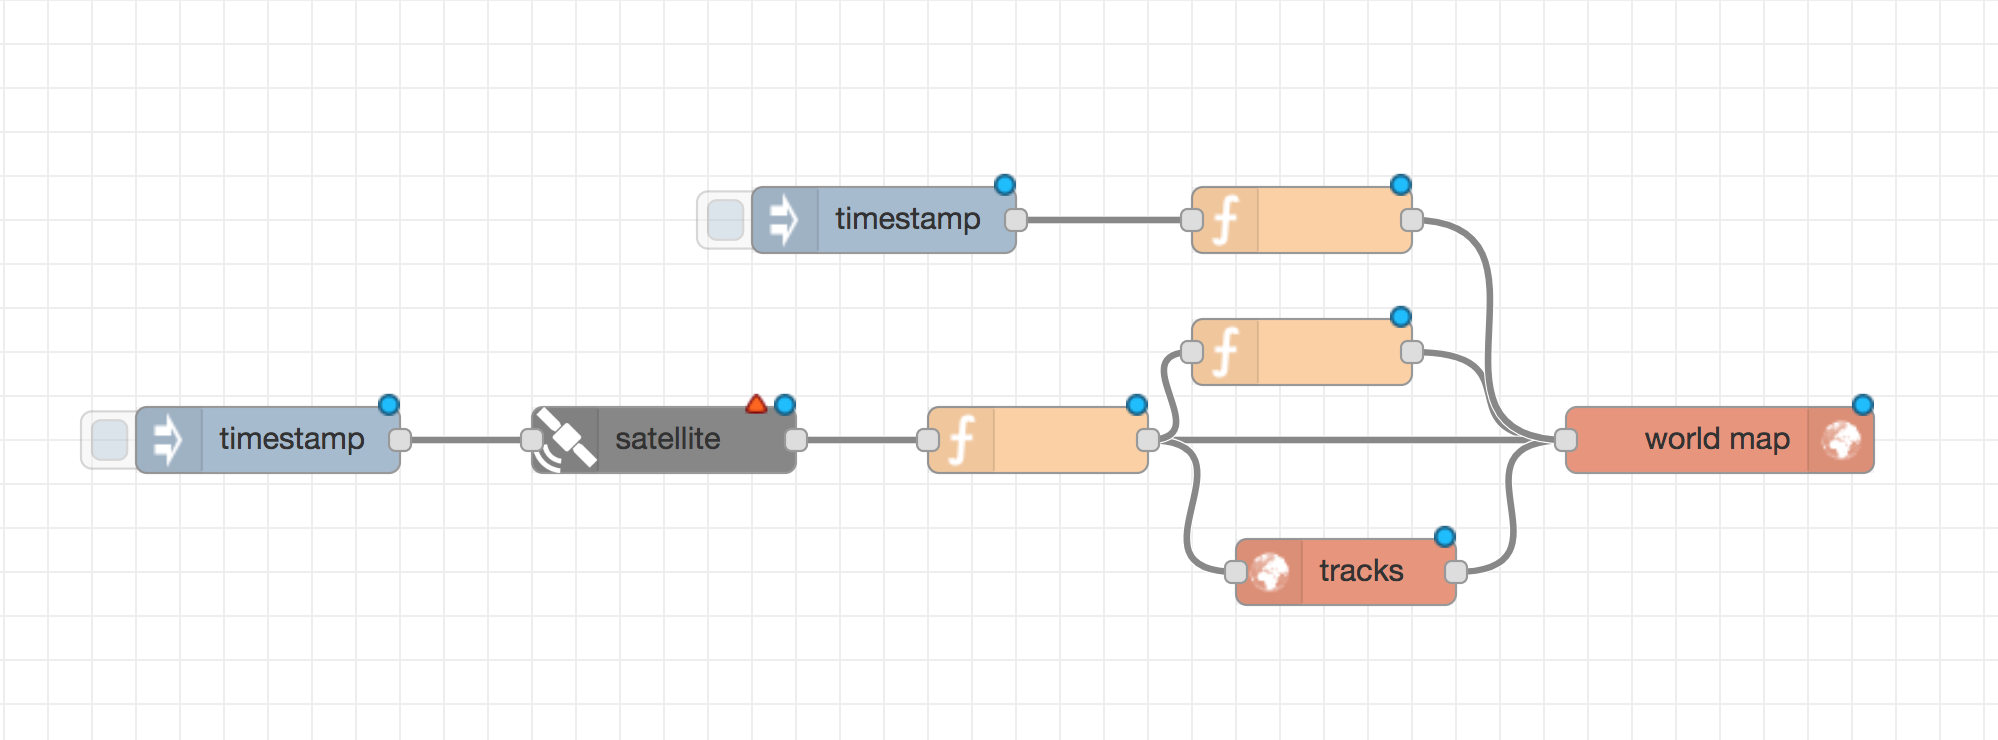
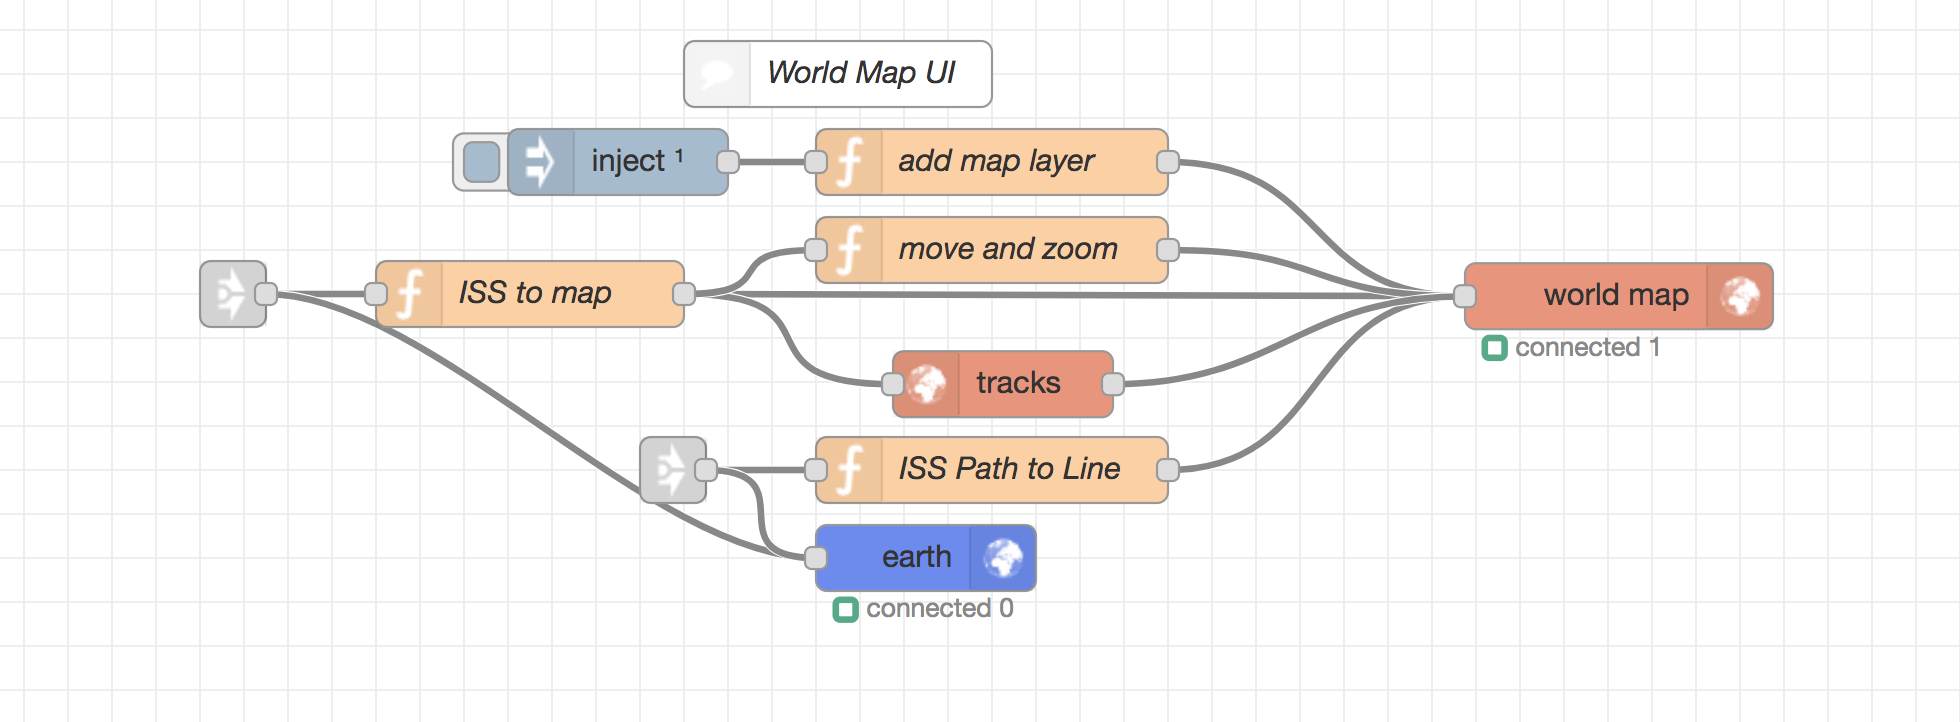
Change instructions to Create Flow Manually. (#24)
Update for changes to the Node-RED flow.

Changed region(s): [[0.0311, 0.0914, 0.9648, 0.8837]]

diff --git a/doc/CreateFlowManually.md b/doc/CreateFlowManually.md
@@ -1,0 +1,180 @@
+# Build the Node-RED Flow Manually
+
+In order to build the Node-RED flow for the CASIS satellite tracker, you will use the flow editor to add and connect nodes, and put configuration information and code in the appropriate node.
+
+> NOTE: You can move the contents of a file to your Operating System clipboard with:
+
+ `pbcopy < myfile` on MacOS,
+
+ `cat myfile |clip` on Windows, or
+
+ `cat myfile| xclip` on Linux.
+
+> NOTE: You can find nodes in the `filter nodes` search box in the upper left of the flow editor.
+
+<p align="left">
+  <img width="100" height="300" src="https://github.com/IBM/pattern-images/blob/master/node-red/NodeREDfilterNodes.png">
+</p>
+
+> NOTE:  We'll add `link` nodes to allow them to fit on one screen, and to connect multiple nodes via branching. We'll add the nodes first, then connect them at the the end.
+
+### Create the Watson Assistant Chat API
+
+* Grab the following nodes in order, and wire them up in a row. The following 3 groups represent 3 rows:
+
+```
+http in
+function
+assistant
+function
+link out
+
+link in
+function
+credentials
+http request
+json
+link out
+
+link in
+function
+http response
+```
+
+The flow should look like this:
+
+![](source/images/ChatUIwiredUp.png)
+
+* Double-click the first node, `http in` and change the Method to `POST` and the URL to `/botchat`
+
+* Double-click the next `function` node, change the name to `Process chat input` and cut-n-paste the [processChatInput.js](../data/NodeRED/Functions/processChatInput.js) code.
+
+* Double-click the `Assistant` node, and name it 'ISS Assistant'. Add the `username` and `password`, or the IAM `apikey`, and the `Workspace ID`  that you saved earlier when you created the Watson Assistant service.
+
+* Double-click the final `function` node in the first row, name it `Generate Timestamp`, and cut-n-paste the [generateTimestamp.js](../data/NodeRED/Function/generateTimestamp.js) code.
+
+* Start the second row by double-clicking on the first `function` node in that row and name it `ISS to reverse geocode function`, and paste the [ISStoReverseGeocode.js](../data/NodeRED/Functions/ISStoReverseGeocode.js) code.
+
+* Double click the `credentials` node. Click `+add` under the `Values` box and add the locationIQ API key to the `private` box and change the `to` box to be msg.`API_key`.
+
+* Double click the `http request` node and name it `GET reverse geocode`. In the URL box paste the [getReverseGeocode](../data/NodeRED/Functions/getReverseGeocode) URL string.
+
+* The `json` node does not need configuration.
+
+* Begin the third row by double-clicking the `function` node and naming it `Assistant output to chat`. Paste the [assistantOutputToChat.js](../data/NodeRED/Functions/assistantOutputToChat.js) code.
+
+* Finally, double-click the `http response` node and name it `Bot response`. Set the status code to `200`.
+
+### Create the Handle Assistant Intents
+
+* We'll build the following:
+
+![](source/images/HandleAssistantIntents.png)
+
+* Grab the following Nodes and connect them:
+
+```
+link node
+switch node
+
+in parallel:
+function node
+satellite node
+time array
+time array
+function
+function
+
+from each time array:
+function
+
+from both functions:
+satellite
+
+link node
+```
+
+* Open up the switch node, name it `Assistant Intents`, and add the property `assistant.intents[0].intent` (after `msg.`).
+We'll have a total of 6 intents, so use the `+add` button to add 5 more. Name them: `what`,`where`,`where-historical`,`where-future`, `mode-2d`, and `mode-3d`.
+
+* Open the top function node, name it `Where is the ISS?`, and paste the [whatIsTheISS.js](../data/NodeRED/Functions/whatIsTheISS.js) code.
+
+* The satellite node should already have Sat. Type `Space Stations` and Satellite `ISS(ZARYA)`.
+
+* Open the top Satellite Time Array node and configure with `+/-` `10` mins, Samples `20`, and Name `Last 10 mins`.
+
+* Open the second Satellite Time Array node and configure with `+/-` `0` mins, Samples `20`, and Name `Next 10 mins`.
+
+* Open the next function node, name it `Define Mode` and paste the [defineMode.js](../data/NodeRED/Functions/defineMode.js) code.
+
+* Open the bottom function node, name it `Define Mode` and paste the [defineMode.js](../data/NodeRED/Functions/defineMode.js) code. Change the code from `2d` to `3d`.
+
+* The 2 functions coming after the Satellite Time array should both be named `Define Text`. Paste the [defineText.js](../data/NodeRED/Functions/defineText.js) code in each and change the bottom one from `Last` to `Next`.
+
+* The final Satellite node should be the same as the first, with Satellite `ISS(ZARYA)`.
+
+### Create the HTML Chat UI
+
+* In your Node-RED flow editor, drag-and-drop nodes for `HTTP input`, `template`, and `HTTP response` and wire them together.
+
+* Double-click the first node `http in` and change the Method to `GET` and the URL to `/bot`. Name it `Chat home page`.
+
+* Add the [chat-ui.html](../data/NodeRED/HTML/chat-ui.html) code to the template node and name it `HTML`.
+
+* Name the http response node `Chat http response`.
+
+### Create the World Map UI
+
+* In the Node-RED flow editor, drag-and-drop 2 `link` nodes, an `inject` node, 4 `function` nodes, a `worldmap` node, an `earth` node,  and a `worldmap-tracks` node.
+
+* Wire them up:
+
+![](source/images/WorldmapUIwiring.png)
+
+* Double-click the `inject` node and tick the checkbox for ` Inject once after 0.1 seconds.
+
+* Double-click the top function node (after the timestamp) and add the code for [add map layer](../data/NodeRED/Functions/addMapLayer.js). Name it `add map layer`.
+
+* Double-click the function node after the link node and add the code for [ISS to Map](../data/NodeRED/Functions/ISStoMap.js). Name it `ISS to map`.
+
+* Double-click the function node after `ISS to map`, and add the code for [move and zoom](..data/NodeRED/Functions/moveAndZoom.js). Name it `move and zoom`.
+
+* Double-click the last function node, between `tracks` and `earth`, name it `ISS Path to Line` and paste the code [ISSPathToLine.js](..data/NodeRED/Functions/ISSPathToLine.js).
+
+* The `worldmap`, `tracks`, and `earth` nodes do not need any configuring.
+
+### Connect the Link nodes
+
+The Link nodes are named for the nodes that are connected to, with either `IN` or `OUT` appended to indicate whether they go in to or out from that node.
+You connect the link nodes by double-clicking and choosing the node they connect to . For example, we connect `Generate Timestamp OUT` to `Assistant Intents IN`:
+
+![](source/images/GenerateOUTtoAsstIntentIN.png)
+
+  <img width="200" height="150" src="source/images/EditGTout.png">
+  <img width="200" height="150" src="source/images/EditAsstIntentIN.png">
+
+* Connect `iss to reverse geocode IN` to `ISS Location OUT`:
+
+![](source/images/IssRevGeoINtoISSlocOUT.png)
+
+* Connect `json OUT` to `Assistant output to Chat IN`:
+
+![](source/images/jsonOUTtoAsstToChatIN.png)
+
+*  Connect `What is ISS OUT`, `ISS 2 OUT`, `Define Mode 2d OUT`, and `Define Mode 3d OUT` to `Assistant output to Chat IN`:
+
+![](source/images/ManyToAsstOutToChatIN.png)
+
+* Connect `ISS Location OUT` to both `ss to reverse geocode IN` and `ISS to Map IN`:
+
+![](source/images/ISSlocOUTtoRevGeoINissToMapIN.png)
+
+* Connect `ISS 2 OUT` to `ISS to Map IN` and `ISS Path to Line IN` (It's already connected to `Assistant output to Chat IN`):
+
+![](source/images/ISS2OUTtoMapINpath2LineIN.png)
+
+### Deploy the App
+
+Click `Deploy`
+
+![](source/images/ClickDeploy.png)

diff --git a/README.md b/README.md
@@ -46,7 +46,7 @@ When the reader has completed this Code Pattern, they will understand how to:
 1. [Get a LocationIQ API key](#6-get-a-locationiq-api-key)
 1. [Install additional nodes and Perform either 7a or 7b](#7-install-additional-nodes)
 
-    7a. [Build the Node-RED flow manually](doc/CreateFlow.md)
+    7a. [Build the Node-RED flow manually](doc/CreateFlowManually.md)
 
     7b. [Import the completed flow](#7b-import-the-completed-flow)
 
